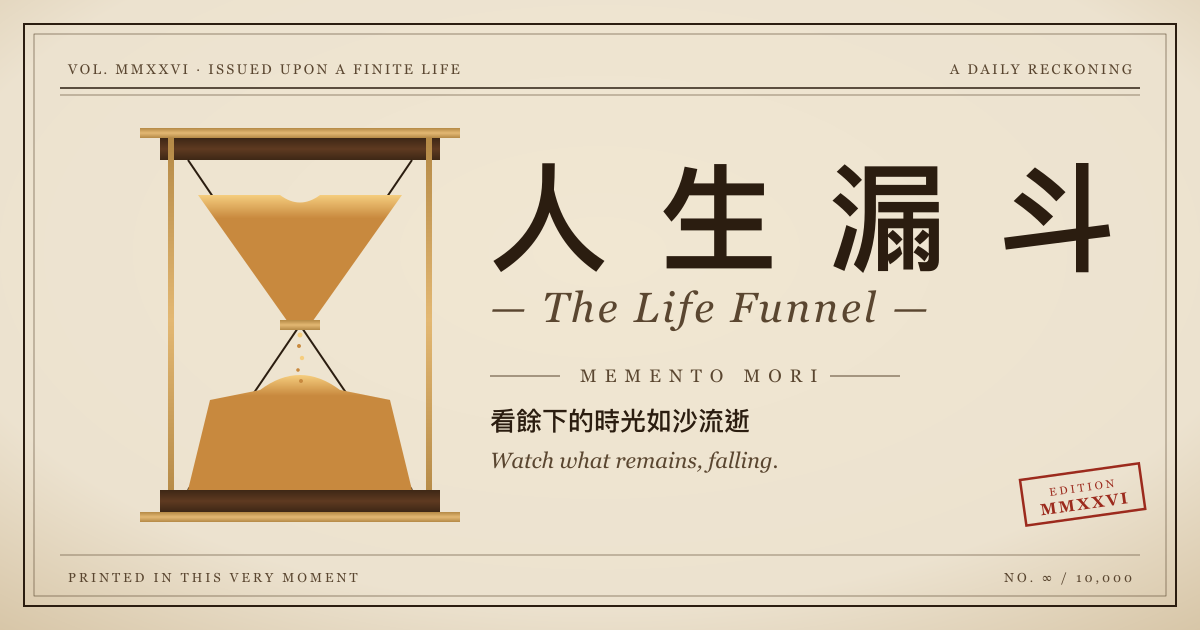
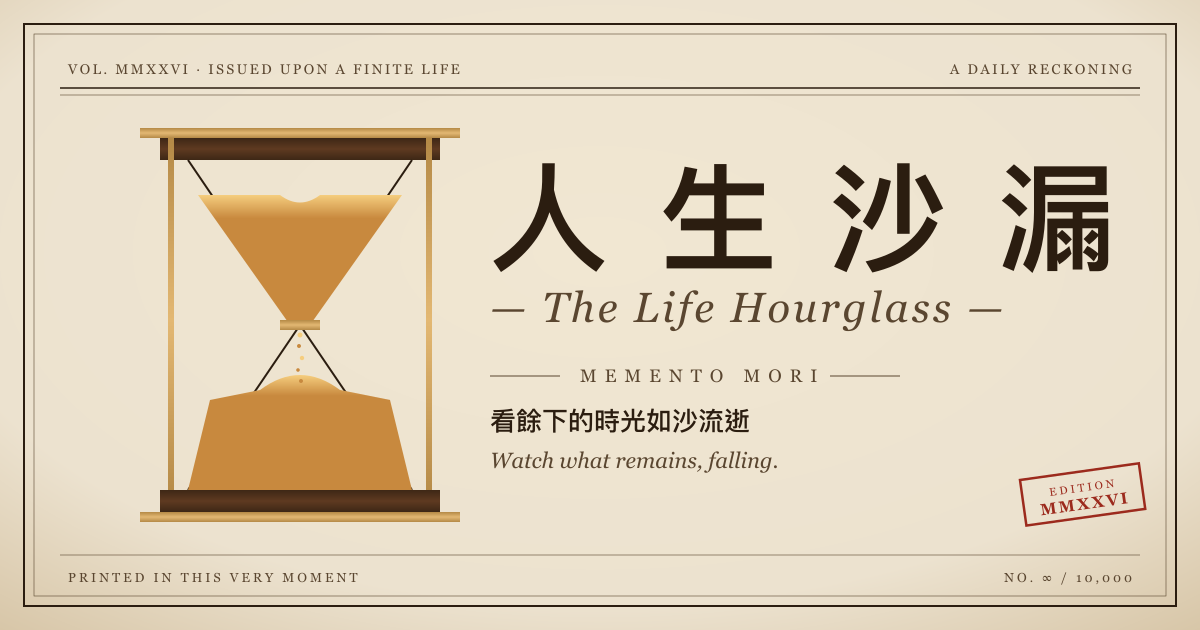
Rename project from 人生漏斗 / Life Funnel to 人生沙漏 / Life Hourglass
沙漏 (hourglass) describes the actual visual metaphor more accurately
than 漏斗 (funnel). Updates titles, meta tags, OG image, Workers
project name, and the deploy URL referenced in social cards.

Changed region(s): [[0.6167, 0.2413, 0.8325, 0.5127], [0.8325, 0.2413, 0.925, 0.4524]]

diff --git a/index.html b/index.html
@@ -3,8 +3,8 @@
 <head>
 <meta charset="utf-8" />
 <meta name="viewport" content="width=device-width,initial-scale=1" />
-<title>人生漏斗 · The Life Funnel</title>
-<meta name="description" content="人生漏斗 — 復古沙漏式的生命倒數，輸入歲數與目標壽命，看餘下的時光如沙緩緩流逝。" />
+<title>人生沙漏 · The Life Hourglass</title>
+<meta name="description" content="人生沙漏 — 復古沙漏式的生命倒數，輸入歲數與目標壽命，看餘下的時光如沙緩緩流逝。" />
 
 <!-- favicon -->
 <link rel="icon" type="image/svg+xml" href="favicon.svg" />
@@ -13,20 +13,20 @@
 <meta property="og:type" content="website" />
 <meta property="og:locale" content="zh_TW" />
 <meta property="og:locale:alternate" content="en_US" />
-<meta property="og:site_name" content="人生漏斗 · The Life Funnel" />
-<meta property="og:title" content="人生漏斗 · The Life Funnel" />
+<meta property="og:site_name" content="人生沙漏 · The Life Hourglass" />
+<meta property="og:title" content="人生沙漏 · The Life Hourglass" />
 <meta property="og:description" content="復古沙漏式的生命倒數 — 看餘下的時光如沙流逝。Watch what remains, falling." />
-<meta property="og:url" content="https://life-funnel.garyshen.workers.dev/" />
-<meta property="og:image" content="https://life-funnel.garyshen.workers.dev/og-image.png" />
+<meta property="og:url" content="https://life-hourglass.garyshen.workers.dev/" />
+<meta property="og:image" content="https://life-hourglass.garyshen.workers.dev/og-image.png" />
 <meta property="og:image:width" content="1200" />
 <meta property="og:image:height" content="630" />
-<meta property="og:image:alt" content="人生漏斗 The Life Funnel — Memento Mori. A vintage hourglass." />
+<meta property="og:image:alt" content="人生沙漏 The Life Hourglass — Memento Mori. A vintage hourglass." />
 
 <!-- Twitter -->
 <meta name="twitter:card" content="summary_large_image" />
-<meta name="twitter:title" content="人生漏斗 · The Life Funnel" />
+<meta name="twitter:title" content="人生沙漏 · The Life Hourglass" />
 <meta name="twitter:description" content="復古沙漏式的生命倒數 — Watch what remains, falling." />
-<meta name="twitter:image" content="https://life-funnel.garyshen.workers.dev/og-image.png" />
+<meta name="twitter:image" content="https://life-hourglass.garyshen.workers.dev/og-image.png" />
 
 <link rel="preconnect" href="https://fonts.googleapis.com">
 <link rel="preconnect" href="https://fonts.gstatic.com" crossorigin>

diff --git a/app.jsx b/app.jsx
@@ -1,4 +1,4 @@
-// Main app — bilingual vintage Life Funnel.
+// Main app — bilingual vintage Life Hourglass.
 
 const TWEAK_DEFAULTS = /*EDITMODE-BEGIN*/{
   "theme": "sepia",
@@ -349,8 +349,8 @@ function App() {
           Issued upon a finite life
         </div>
         <div className="mast-c">
-          <h1 className="title-zh">人 生 漏 斗</h1>
-          <div className="title-en">— The Life Funnel —</div>
+          <h1 className="title-zh">人 生 沙 漏</h1>
+          <div className="title-en">— The Life Hourglass —</div>
           <div className="ornament">
             <hr/> Memento Mori <hr/>
           </div>

diff --git a/README.md b/README.md
@@ -1,17 +1,17 @@
-# 人生漏斗 · The Life Funnel
+# 人生沙漏 · The Life Hourglass
 
 > 看餘下的時光如沙流逝。
 > _Watch what remains, falling._
 
 A vintage hourglass life-countdown — a quiet, daily reckoning of how much of your finite life remains, rendered as sand draining from an aged sand-glass.
 
-![The Life Funnel](og-image.png)
+![The Life Hourglass](og-image.png)
 
 ---
 
 ## 這是什麼？ / What is this?
 
-輸入你目前的歲數、性別、與目標壽命，頁面會在中央漏斗中讓沙緩緩自上流下，左右兩側計算剩餘的天數、小時、週末次數，並輪換中英雙語的反思箴言（Seneca、Marcus Aurelius、Annie Dillard …）。
+輸入你目前的歲數、性別、與目標壽命，頁面會在中央沙漏中讓沙緩緩自上流下，左右兩側計算剩餘的天數、小時、週末次數，並輪換中英雙語的反思箴言（Seneca、Marcus Aurelius、Annie Dillard …）。
 
 Enter your current age, gender, and target lifespan. The hourglass at the center drains in real time; the side panels compute days, hours, and weekends remaining. Bilingual reflective quotes from Seneca, Marcus Aurelius, Annie Dillard, and others rotate every nine seconds.
 
@@ -80,7 +80,7 @@ npx serve .
 ## 檔案結構 / Project structure
 
 ```
-life-funnel/
+life-hourglass/
 ├── index.html          # HTML shell, all CSS inline, meta tags, font loading
 ├── app.jsx             # Main React component (form, layout, state)
 ├── hourglass.jsx       # SVG silhouette + sand piles + canvas particles